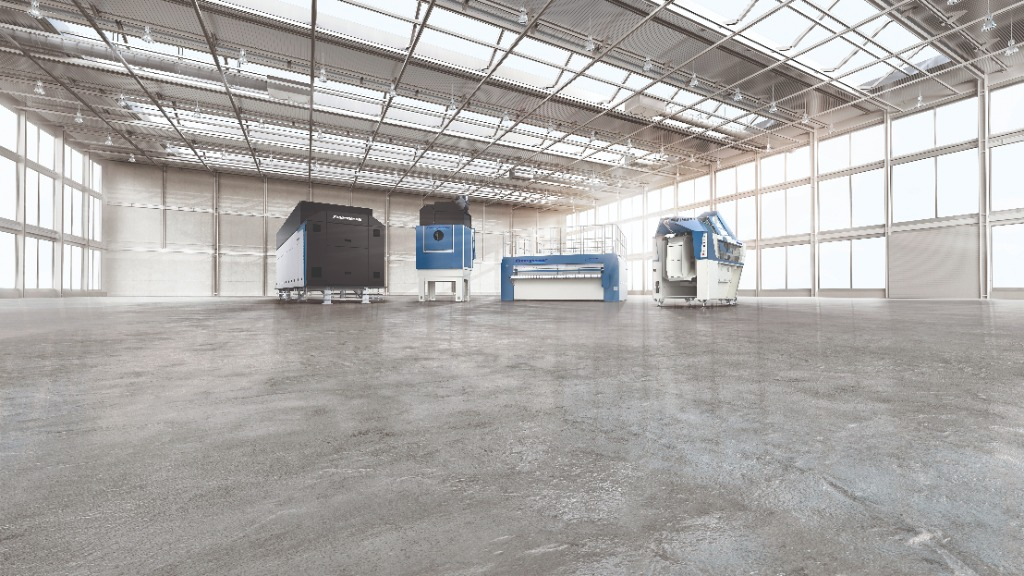
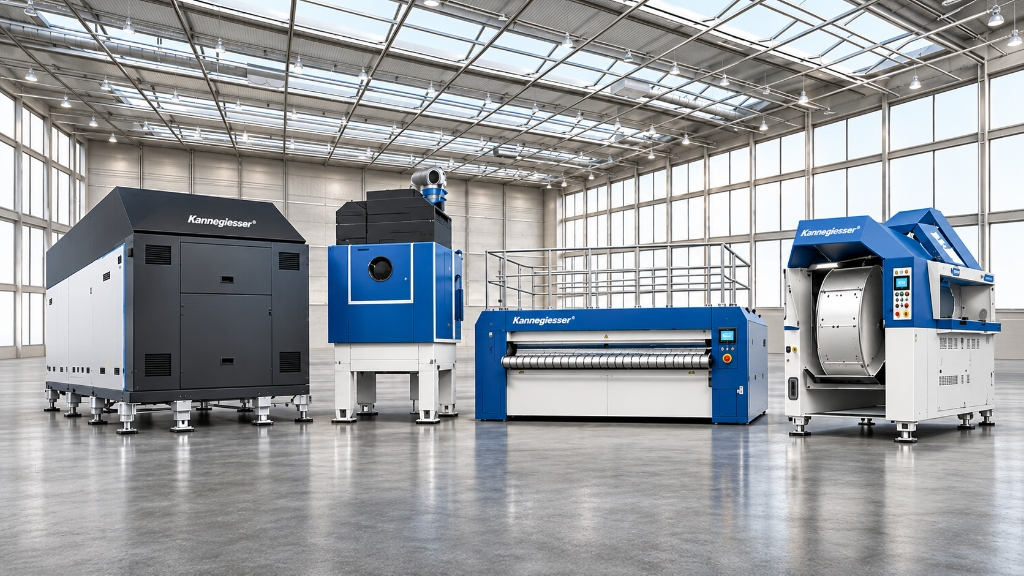
feat(consultancy, kannegiesser): display complete consultancy hero image in two-column layout and update kannegiesser showroom image

diff --git a/src/pages/Consultancy.jsx b/src/pages/Consultancy.jsx
@@ -19,271 +19,114 @@ import consultancyHeroBg from '../assets/consultancy hero.jpeg';
 ───────────────────────────────────────────── */
 function HeroSection() {
   return (
-    <section id="consultancy-hero" className="relative w-full mt-[80px] bg-white overflow-hidden">
-      {/* =========================================================================
-          DESKTOP VIEW (lg: and above)
-          Matches Home Hero architecture: aspect-[1600/640], pure natural colors,
-          zero milky wash, typography positioned in the left graphic space.
-      ========================================================================= */}
-      <div className="hidden lg:block relative w-full max-w-[1600px] mx-auto aspect-[1600/640] min-h-[560px] overflow-hidden select-none">
-        {/* Background Image: 100% natural, crisp, rich colors with NO milky overlay */}
-        <img 
-          src={consultancyHeroBg} 
-          alt="Promac Laundry Consultancy" 
-          className="w-full h-full object-cover object-[right_center] pointer-events-none" 
-        />
-
-        {/* Soft left gradient wash to ensure 100% text readability */}
-        <div className="absolute inset-0 bg-gradient-to-r from-white via-white/90 via-[36%] to-transparent pointer-events-none z-10" />
-
-        {/* Interactive Desktop Content Layer */}
-        <div className="absolute inset-0 z-20 pointer-events-none">
-          {/* Eyebrow tag */}
-          <motion.div
-            initial={{ opacity: 0, y: -10 }}
-            animate={{ opacity: 1, y: 0 }}
-            transition={{ duration: 0.6, delay: 0.1 }}
-            style={{ left: '4.5%', top: '9%' }}
-            className="absolute"
-          >
-            <span className="text-[#E31E24] font-extrabold text-[clamp(11px,1.1vw,15px)] tracking-[0.25em] uppercase block">
-              CONSULTANCY
-            </span>
-          </motion.div>
-
-          {/* Red Accent Line */}
-          <motion.div 
-            initial={{ scaleX: 0 }}
-            animate={{ scaleX: 1 }}
-            transition={{ duration: 0.6, delay: 0.2 }}
-            style={{ left: '4.5%', top: '14.5%' }}
-            className="absolute w-[3.8%] h-[0.5%] min-h-[4px] bg-[#E31E24] origin-left rounded-full"
-          />
-
-          {/* H1 Heading */}
-          <motion.h1 
-            initial={{ opacity: 0, y: 15 }}
-            animate={{ opacity: 1, y: 0 }}
-            transition={{ duration: 0.7, delay: 0.3 }}
-            style={{ left: '4.5%', top: '18%', maxWidth: '33%' }}
-            className="absolute font-black tracking-tight text-[#001F3F] leading-[1.08] text-[clamp(24px,2.7vw,46px)] drop-shadow-sm"
-          >
-            SMART PLANNING.<br/>
-            EFFICIENT OPERATIONS.<br/>
-            <span className="text-[#E31E24]">STRONGER RESULTS.</span>
-          </motion.h1>
-
-          {/* Paragraph */}
-          <motion.p 
-            initial={{ opacity: 0, y: 15 }}
-            animate={{ opacity: 1, y: 0 }}
-            transition={{ duration: 0.7, delay: 0.45 }}
-            style={{ left: '4.5%', top: '50%', maxWidth: '32%' }}
-            className="absolute text-slate-700 font-medium text-[clamp(11.5px,0.98vw,15px)] leading-[1.5] text-left"
-          >
-            Expert consultancy for industrial laundry setups that reduce costs, improve efficiency and drive long term success.
-          </motion.p>
-
-          {/* CTA Buttons */}
-          <motion.div 
-            initial={{ opacity: 0, scale: 0.95 }}
-            animate={{ opacity: 1, scale: 1 }}
-            transition={{ duration: 0.6, delay: 0.6 }}
-            style={{ left: '4.5%', top: '68%' }}
-            className="absolute flex items-center gap-3 pointer-events-auto"
-          >
-            <Link to="/contact">
-              <motion.button 
-                whileHover={{ scale: 1.04, backgroundColor: '#A31015' }}
-                whileTap={{ scale: 0.97 }}
-                className="bg-[#E31E24] text-white px-[clamp(14px,1.4vw,24px)] py-[clamp(8px,0.8vw,13px)] text-[clamp(9.5px,0.85vw,12.5px)] font-bold tracking-[0.18em] uppercase transition-all duration-300 shadow-[0_6px_22px_rgba(227,30,36,0.35)] hover:shadow-[0_8px_28px_rgba(227,30,36,0.5)] flex items-center gap-2 rounded-sm group cursor-pointer"
-              >
-                <span>Request Consultation</span>
-                <span className="group-hover:translate-x-1 transition-transform border border-white rounded-full p-0.5 bg-white/10">
-                  <svg className="w-3 h-3" fill="none" viewBox="0 0 24 24" stroke="currentColor" strokeWidth={2.5}>
-                    <path strokeLinecap="round" strokeLinejoin="round" d="M9 5l7 7-7 7" />
-                  </svg>
-                </span>
-              </motion.button>
-            </Link>
-
-            <Link to="/contact">
-              <motion.button 
-                whileHover={{ scale: 1.04, borderColor: '#001F3F' }}
-                whileTap={{ scale: 0.97 }}
-                className="bg-white/90 hover:bg-white text-[#001F3F] border border-slate-300 hover:border-slate-500 px-[clamp(13px,1.3vw,20px)] py-[clamp(8px,0.8vw,13px)] text-[clamp(9.5px,0.85vw,12.5px)] font-bold tracking-[0.16em] uppercase transition-all duration-300 backdrop-blur-sm flex items-center gap-2 rounded-sm cursor-pointer shadow-sm"
-              >
-                <span>Talk to an Expert</span>
-                <svg className="w-3.5 h-3.5 text-[#E31E24]" fill="none" viewBox="0 0 24 24" stroke="currentColor" strokeWidth={2}>
-                  <path strokeLinecap="round" strokeLinejoin="round" d="M12 18.75a6 6 0 006-6v-1.5m-6 7.5a6 6 0 01-6-6v-1.5m6 7.5v3.75m-3.75 0h7.5M12 15.75a3 3 0 01-3-3V4.5a3 3 0 116 0v8.25a3 3 0 01-3 3z" />
-                </svg>
-              </motion.button>
-            </Link>
-          </motion.div>
-        </div>
-
-        {/* Bottom Feature Strip - sits across the conference table with frosted glass */}
-        <div className="absolute bottom-[2%] inset-x-0 w-full z-20 pointer-events-auto">
-          <div className="w-full px-4 xl:px-12">
-            <div className="grid grid-cols-3 gap-6 divide-x divide-slate-300/80 bg-white/90 backdrop-blur-md py-3 px-6 xl:px-8 rounded-xl border border-slate-200/80 shadow-lg">
-              <div className="flex items-center gap-3 pl-2 first:pl-0">
-                <div className="text-[#E31E24] shrink-0">
-                  <svg className="w-5 h-5 xl:w-6 xl:h-6" fill="none" viewBox="0 0 24 24" stroke="currentColor" strokeWidth={1.8}>
-                    <path strokeLinecap="round" strokeLinejoin="round" d="M10.325 4.317c.426-1.756 2.924-1.756 3.35 0a1.724 1.724 0 002.573 1.066c1.543-.94 3.31.826 2.37 2.37a1.724 1.724 0 001.065 2.572c1.756.426 1.756 2.924 0 3.35a1.724 1.724 0 00-1.066 2.573c.94 1.543-.826 3.31-2.37 2.37a1.724 1.724 0 00-2.572 1.065c-.426 1.756-2.924 1.756-3.35 0a1.724 1.724 0 00-2.573-1.066c-1.543.94-3.31-.826-2.37-2.37a1.724 1.724 0 00-1.065-2.572c-1.756-.426-1.756-2.924 0-3.35a1.724 1.724 0 001.066-2.573c-.94-1.543.826-3.31 2.37-2.37.996.608 2.296.07 2.572-1.065z" />
-                    <path strokeLinecap="round" strokeLinejoin="round" d="M15 12a3 3 0 11-6 0 3 3 0 016 0z" />
-                  </svg>
-                </div>
-                <div>
-                  <h3 className="text-xs xl:text-sm font-extrabold text-[#001F3F] tracking-wide">20+ Years Experience</h3>
-                  <p className="text-[10px] xl:text-xs text-slate-500 font-medium">Proven Industry Expertise</p>
-                </div>
-              </div>
-
-              <div className="flex items-center gap-3 pl-6">
-                <div className="text-[#E31E24] shrink-0">
-                  <svg className="w-5 h-5 xl:w-6 xl:h-6" fill="none" viewBox="0 0 24 24" stroke="currentColor" strokeWidth={1.8}>
-                    <path strokeLinecap="round" strokeLinejoin="round" d="M15 10.5a3 3 0 11-6 0 3 3 0 016 0z" />
-                    <path strokeLinecap="round" strokeLinejoin="round" d="M19.5 10.5c0 7.142-7.5 11.25-7.5 11.25S4.5 17.642 4.5 10.5a7.5 7.5 0 1115 0z" />
-                  </svg>
-                </div>
-                <div>
-                  <h3 className="text-xs xl:text-sm font-extrabold text-[#001F3F] tracking-wide">Pan India Presence</h3>
-                  <p className="text-[10px] xl:text-xs text-slate-500 font-medium">National Support Network</p>
-                </div>
-              </div>
-
-              <div className="flex items-center gap-3 pl-4">
-                <div className="text-[#E31E24] shrink-0">
-                  <svg className="w-5 h-5 xl:w-6 xl:h-6" fill="none" viewBox="0 0 24 24" stroke="currentColor" strokeWidth={1.8}>
-                    <path strokeLinecap="round" strokeLinejoin="round" d="M12 18.75a6 6 0 006-6v-1.5m-6 7.5a6 6 0 01-6-6v-1.5m6 7.5v3.75m-3.75 0h7.5M12 15.75a3 3 0 01-3-3V4.5a3 3 0 116 0v8.25a3 3 0 01-3 3z" />
-                  </svg>
-                </div>
-                <div>
-                  <h3 className="text-xs xl:text-sm font-extrabold text-[#001F3F] tracking-wide">End-to-End Support</h3>
-                  <p className="text-[10px] xl:text-xs text-slate-500 font-medium">Concept to Commissioning</p>
-                </div>
-              </div>
+    <section id="consultancy-hero" className="relative w-full mt-[80px] bg-white overflow-hidden py-10 lg:py-16">
+      <div className="max-w-[1500px] mx-auto px-6 sm:px-10 lg:px-16">
+        
+        {/* Main Grid: Left Content, Right Complete Image */}
+        <div className="grid grid-cols-1 lg:grid-cols-12 gap-10 lg:gap-14 items-center mb-12 lg:mb-16">
+          
+          {/* Left Column: Typography & CTAs */}
+          <div className="lg:col-span-5 flex flex-col items-start space-y-6">
+            <div>
+              <span className="text-[#E31E24] font-extrabold text-xs tracking-[0.25em] uppercase block mb-3">
+                CONSULTANCY
+              </span>
+              <div className="w-12 h-1 bg-[#E31E24] rounded-full mb-6" />
+              
+              <h1 className="text-3xl sm:text-4xl xl:text-[46px] font-black tracking-tight text-[#001F3F] leading-[1.12]">
+                SMART PLANNING.<br/>
+                EFFICIENT OPERATIONS.<br/>
+                <span className="text-[#E31E24]">STRONGER RESULTS.</span>
+              </h1>
             </div>
-          </div>
-        </div>
-      </div>
 
-      {/* =========================================================================
-          MOBILE & TABLET VIEW (< lg)
-          Full-height responsive hero matching Home & About hero architecture.
-      ========================================================================= */}
-      <div className="lg:hidden relative w-full min-h-[580px] sm:min-h-[640px] flex flex-col justify-between overflow-hidden">
-        {/* Background Image with focus on the presentation scene */}
-        <img 
-          src={consultancyHeroBg} 
-          alt="Promac Laundry Consultancy" 
-          className="absolute inset-0 w-full h-full object-cover object-[75%_center] pointer-events-none" 
-        />
-
-        {/* Soft readable gradient wash for mobile */}
-        <div className="absolute inset-0 bg-gradient-to-r from-white via-white/95 to-white/40 pointer-events-none z-10" />
-
-        {/* Main Content Area */}
-        <div className="relative z-20 w-full px-6 sm:px-10 pt-10 sm:pt-14 pb-8 flex-grow flex flex-col justify-center max-w-xl">
-          <motion.div 
-            initial={{ opacity: 0, y: 20 }}
-            animate={{ opacity: 1, y: 0 }}
-            transition={{ duration: 0.7 }}
-          >
-            {/* Eyebrow & Red Accent */}
-            <span className="text-xs font-bold tracking-[0.25em] text-[#E31E24] uppercase block mb-2">
-              CONSULTANCY
-            </span>
-            <div className="w-12 h-1 bg-[#E31E24] mb-5 rounded-full" />
-
-            <h1 className="text-3xl sm:text-4xl md:text-5xl font-black leading-[1.1] tracking-tight mb-4 text-[#001F3F]">
-              SMART PLANNING.<br/>
-              EFFICIENT OPERATIONS.<br/>
-              <span className="text-[#E31E24]">STRONGER RESULTS.</span>
-            </h1>
-
-            <p className="text-slate-700 text-sm sm:text-base font-medium leading-relaxed mb-6 max-w-md text-left">
+            <p className="text-slate-600 text-base xl:text-lg font-normal leading-relaxed max-w-lg">
               Expert consultancy for industrial laundry setups that reduce costs, improve efficiency and drive long term success.
             </p>
 
-            <div className="flex flex-col sm:flex-row gap-3 pt-1">
+            <div className="flex flex-wrap items-center gap-4 pt-2">
               <Link to="/contact">
-                <motion.button 
-                  whileHover={{ scale: 1.03 }}
-                  whileTap={{ scale: 0.97 }}
-                  className="w-full sm:w-auto bg-[#E31E24] hover:bg-[#A31015] text-white px-7 py-3.5 text-xs font-bold tracking-[0.2em] uppercase transition-all duration-300 shadow-md flex items-center justify-center gap-3 rounded-sm group cursor-pointer"
-                >
+                <button className="bg-[#E31E24] hover:bg-[#A31015] text-white px-7 py-3.5 text-xs font-bold tracking-[0.18em] uppercase transition-all shadow-md flex items-center gap-2 rounded-sm cursor-pointer">
                   <span>Request Consultation</span>
-                  <span className="group-hover:translate-x-1 transition-transform border border-white rounded-full p-0.5 bg-white/10">
-                    <svg className="w-3.5 h-3.5" fill="none" viewBox="0 0 24 24" stroke="currentColor" strokeWidth={2.5}>
-                      <path strokeLinecap="round" strokeLinejoin="round" d="M9 5l7 7-7 7" />
-                    </svg>
-                  </span>
-                </motion.button>
+                  <svg className="w-3.5 h-3.5" fill="none" viewBox="0 0 24 24" stroke="currentColor" strokeWidth={2.5}>
+                    <path strokeLinecap="round" strokeLinejoin="round" d="M9 5l7 7-7 7" />
+                  </svg>
+                </button>
               </Link>
+
               <Link to="/contact">
-                <motion.button 
-                  whileHover={{ scale: 1.03 }}
-                  whileTap={{ scale: 0.97 }}
-                  className="w-full sm:w-auto bg-white/90 hover:bg-white text-[#001F3F] border border-slate-300 px-6 py-3.5 text-xs font-bold tracking-[0.18em] uppercase transition-all duration-300 shadow-sm flex items-center justify-center gap-2 rounded-sm cursor-pointer"
-                >
+                <button className="bg-white text-[#001F3F] border border-slate-300 hover:border-slate-500 px-6 py-3.5 text-xs font-bold tracking-[0.16em] uppercase transition-all shadow-sm flex items-center gap-2 rounded-sm cursor-pointer">
                   <span>Talk to an Expert</span>
                   <svg className="w-3.5 h-3.5 text-[#E31E24]" fill="none" viewBox="0 0 24 24" stroke="currentColor" strokeWidth={2}>
                     <path strokeLinecap="round" strokeLinejoin="round" d="M12 18.75a6 6 0 006-6v-1.5m-6 7.5a6 6 0 01-6-6v-1.5m6 7.5v3.75m-3.75 0h7.5M12 15.75a3 3 0 01-3-3V4.5a3 3 0 116 0v8.25a3 3 0 01-3 3z" />
                   </svg>
-                </motion.button>
+                </button>
               </Link>
             </div>
-          </motion.div>
+          </div>
+
+          {/* Right Column: Complete Image Displayed 100% */}
+          <div className="lg:col-span-7">
+            <div className="relative w-full rounded-2xl lg:rounded-3xl overflow-hidden shadow-2xl border border-slate-200/80 bg-slate-50 group">
+              <img 
+                src={consultancyHeroBg} 
+                alt="Promac Laundry Consultancy Presentation" 
+                className="w-full h-auto object-contain block hover:scale-[1.02] transition-transform duration-700" 
+              />
+            </div>
+          </div>
+
         </div>
 
-        {/* Mobile Features (3 items) */}
-        <div className="relative z-20 w-full bg-white/95 backdrop-blur-md py-4 px-4 sm:px-8 border-t border-slate-100 shadow-[0_-4px_15px_rgba(0,0,0,0.03)]">
-          <div className="grid grid-cols-3 gap-2 sm:gap-4">
-            <div className="flex items-start gap-2">
-              <div className="text-[#E31E24] shrink-0 mt-0.5">
-                <svg className="w-4 h-4 sm:w-5 sm:h-5" fill="none" viewBox="0 0 24 24" stroke="currentColor" strokeWidth={1.8}>
+        {/* Bottom Feature Strip - 3 Balanced Points */}
+        <div className="w-full">
+          <div className="grid grid-cols-1 md:grid-cols-3 gap-6 divide-y md:divide-y-0 md:divide-x divide-slate-200 bg-slate-50/80 py-5 px-6 sm:px-8 rounded-2xl border border-slate-200/80 shadow-sm">
+            
+            <div className="flex items-center gap-4 pl-2 first:pl-0">
+              <div className="w-12 h-12 rounded-xl bg-white shadow-sm border border-slate-100 flex items-center justify-center text-[#E31E24] shrink-0">
+                <svg className="w-6 h-6" fill="none" viewBox="0 0 24 24" stroke="currentColor" strokeWidth={1.8}>
                   <path strokeLinecap="round" strokeLinejoin="round" d="M10.325 4.317c.426-1.756 2.924-1.756 3.35 0a1.724 1.724 0 002.573 1.066c1.543-.94 3.31.826 2.37 2.37a1.724 1.724 0 001.065 2.572c1.756.426 1.756 2.924 0 3.35a1.724 1.724 0 00-1.066 2.573c.94 1.543-.826 3.31-2.37 2.37a1.724 1.724 0 00-2.572 1.065c-.426 1.756-2.924 1.756-3.35 0a1.724 1.724 0 00-2.573-1.066c-1.543.94-3.31-.826-2.37-2.37a1.724 1.724 0 00-1.065-2.572c-1.756-.426-1.756-2.924 0-3.35a1.724 1.724 0 001.066-2.573c-.94-1.543.826-3.31 2.37-2.37.996.608 2.296.07 2.572-1.065z" />
                   <path strokeLinecap="round" strokeLinejoin="round" d="M15 12a3 3 0 11-6 0 3 3 0 016 0z" />
                 </svg>
               </div>
               <div>
-                <h3 className="text-[10px] sm:text-xs font-bold text-[#001F3F] tracking-wider leading-tight">20+ Years Exp</h3>
-                <p className="text-[9px] sm:text-[10px] text-slate-500 font-medium leading-tight">Industry Expertise</p>
+                <h3 className="text-sm font-bold text-[#001F3F] tracking-wide">20+ Years Experience</h3>
+                <p className="text-xs text-slate-500 font-medium">Proven Industry Expertise</p>
               </div>
             </div>
 
-            <div className="flex items-start gap-2">
-              <div className="text-[#E31E24] shrink-0 mt-0.5">
-                <svg className="w-4 h-4 sm:w-5 sm:h-5" fill="none" viewBox="0 0 24 24" stroke="currentColor" strokeWidth={1.8}>
+            <div className="flex items-center gap-4 pl-0 md:pl-6 pt-4 md:pt-0">
+              <div className="w-12 h-12 rounded-xl bg-white shadow-sm border border-slate-100 flex items-center justify-center text-[#E31E24] shrink-0">
+                <svg className="w-6 h-6" fill="none" viewBox="0 0 24 24" stroke="currentColor" strokeWidth={1.8}>
                   <path strokeLinecap="round" strokeLinejoin="round" d="M15 10.5a3 3 0 11-6 0 3 3 0 016 0z" />
                   <path strokeLinecap="round" strokeLinejoin="round" d="M19.5 10.5c0 7.142-7.5 11.25-7.5 11.25S4.5 17.642 4.5 10.5a7.5 7.5 0 1115 0z" />
                 </svg>
               </div>
               <div>
-                <h3 className="text-[10px] sm:text-xs font-bold text-[#001F3F] tracking-wider leading-tight">Pan India</h3>
-                <p className="text-[9px] sm:text-[10px] text-slate-500 font-medium leading-tight">National Reach</p>
+                <h3 className="text-sm font-bold text-[#001F3F] tracking-wide">Pan India Presence</h3>
+                <p className="text-xs text-slate-500 font-medium">National Support Network</p>
               </div>
             </div>
 
-            <div className="flex items-start gap-2">
-              <div className="text-[#E31E24] shrink-0 mt-0.5">
-                <svg className="w-4 h-4 sm:w-5 sm:h-5" fill="none" viewBox="0 0 24 24" stroke="currentColor" strokeWidth={1.8}>
+            <div className="flex items-center gap-4 pl-0 md:pl-6 pt-4 md:pt-0">
+              <div className="w-12 h-12 rounded-xl bg-white shadow-sm border border-slate-100 flex items-center justify-center text-[#E31E24] shrink-0">
+                <svg className="w-6 h-6" fill="none" viewBox="0 0 24 24" stroke="currentColor" strokeWidth={1.8}>
                   <path strokeLinecap="round" strokeLinejoin="round" d="M12 18.75a6 6 0 006-6v-1.5m-6 7.5a6 6 0 01-6-6v-1.5m6 7.5v3.75m-3.75 0h7.5M12 15.75a3 3 0 01-3-3V4.5a3 3 0 116 0v8.25a3 3 0 01-3 3z" />
                 </svg>
               </div>
               <div>
-                <h3 className="text-[10px] sm:text-xs font-bold text-[#001F3F] tracking-wider leading-tight">End-to-End</h3>
-                <p className="text-[9px] sm:text-[10px] text-slate-500 font-medium leading-tight">Full Lifecycle</p>
+                <h3 className="text-sm font-bold text-[#001F3F] tracking-wide">End-to-End Support</h3>
+                <p className="text-xs text-slate-500 font-medium">Concept to Commissioning</p>
               </div>
             </div>
+
           </div>
         </div>
+
       </div>
     </section>
   );
 }
-
 
 /* ─────────────────────────────────────────────
    INDUSTRY SLIDER SECTION
